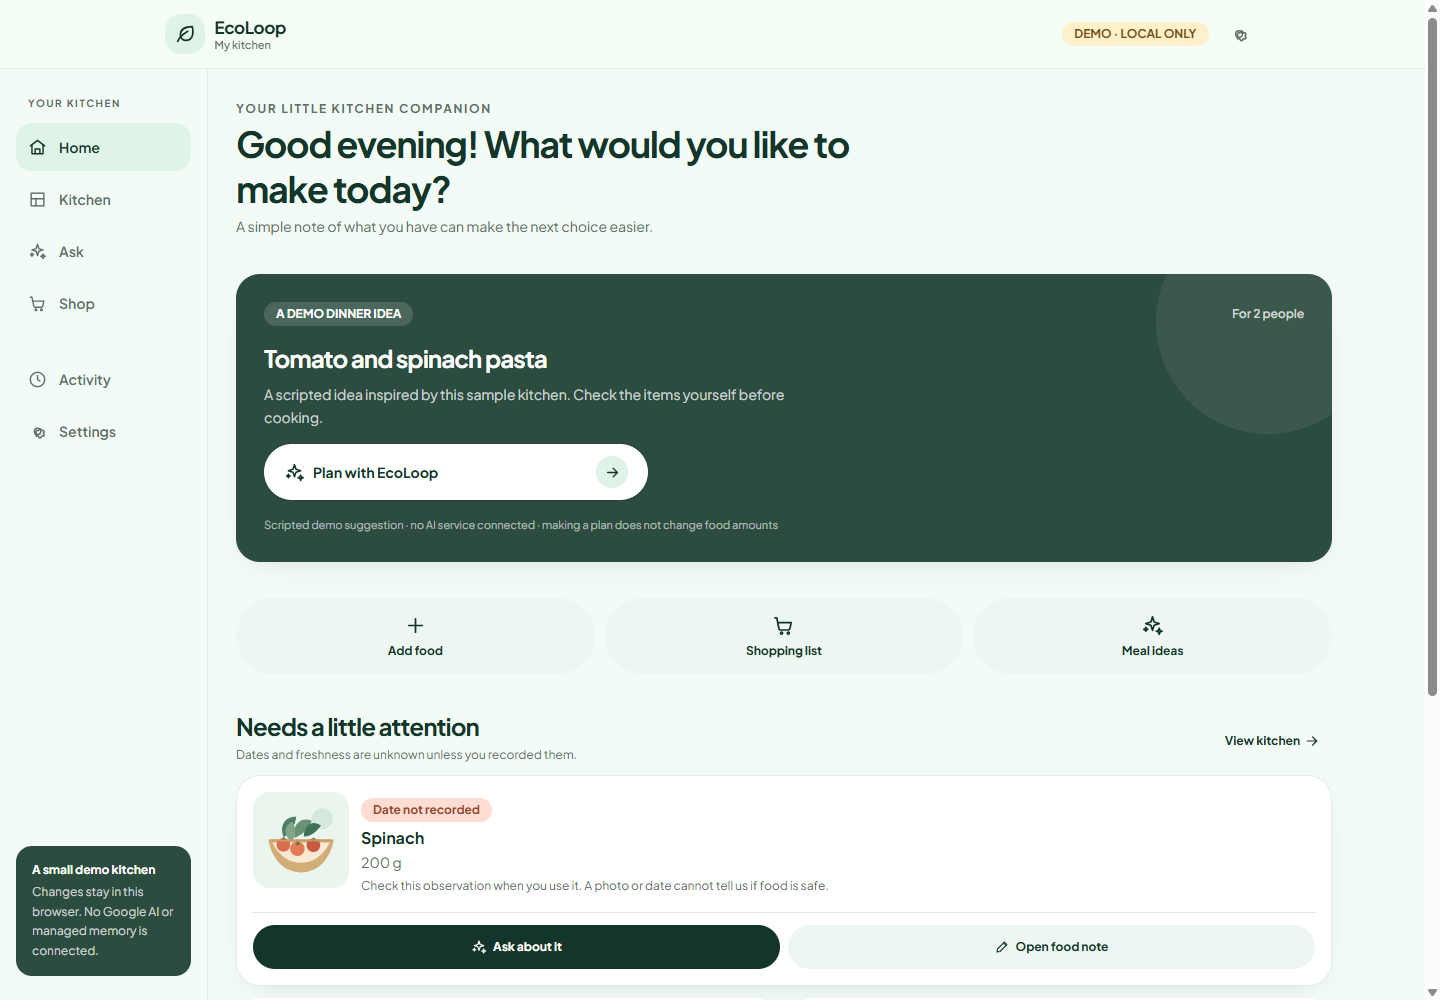
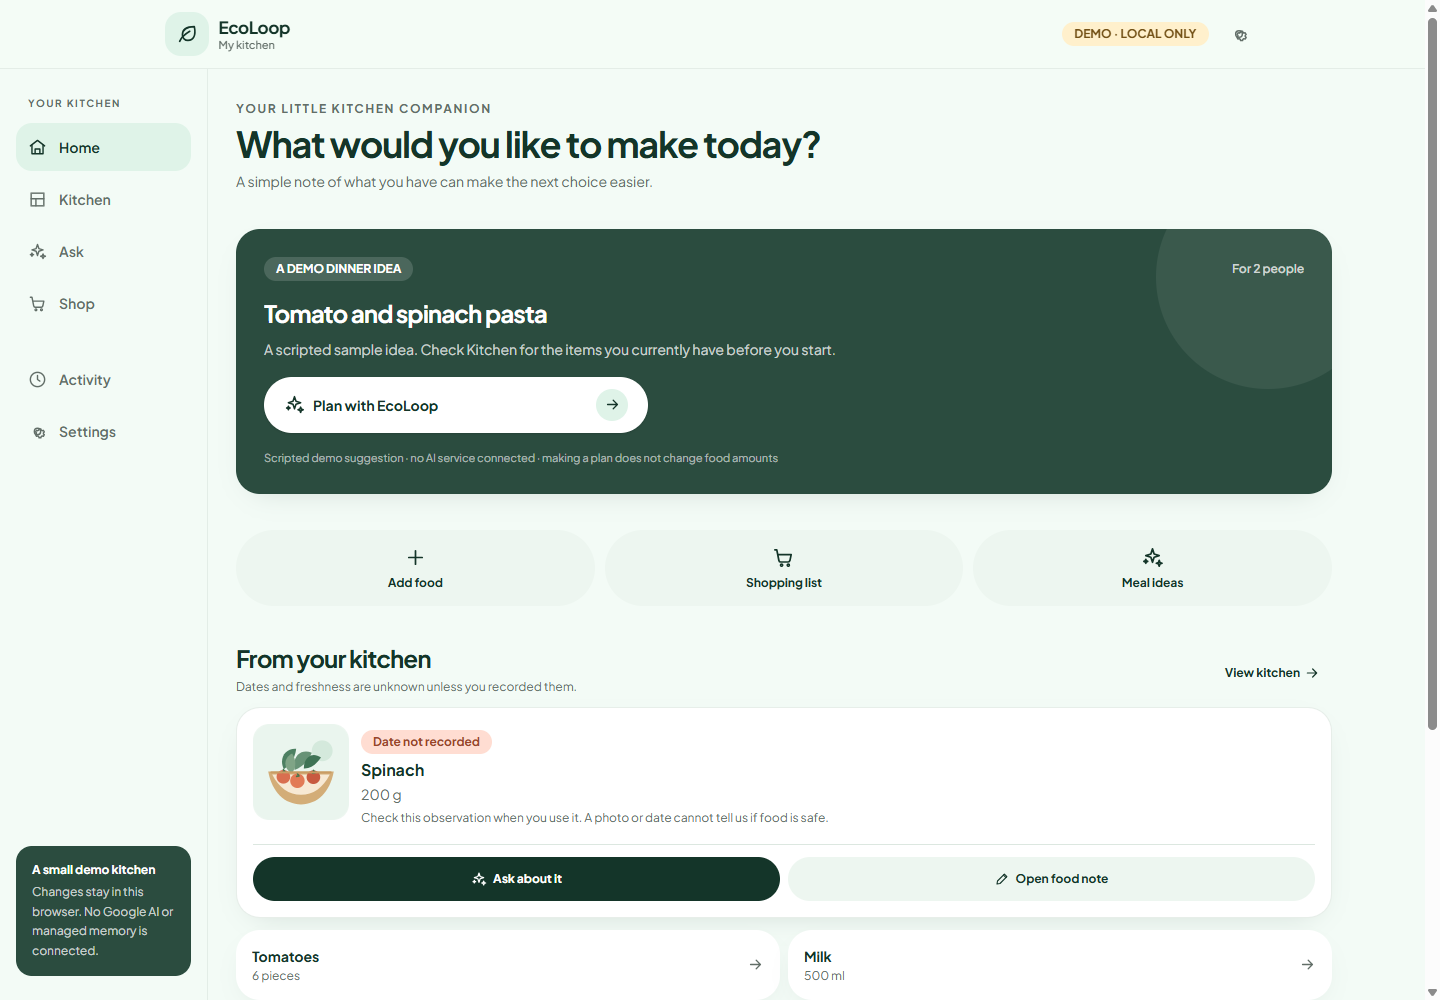
docs: record final integration build and browser review

diff --git a/docs/evidence/demo-2026-10-16/README.md b/docs/evidence/demo-2026-10-16/README.md
@@ -1,6 +1,6 @@
 # Local demo acceptance — 16 October 2026
 
-Reviewer: root integrator. Application checkpoint: `94a292c`. Production Next.js server at `http://127.0.0.1:3002`; headless Chrome, 360×800 and 1440×1000. Synthetic browser data only. This record proves local interactions; it does not prove Firebase, deployed authorization, Gemini, managed Sessions/Memory Bank, or food safety.
+Reviewer: root integrator. Initial application checkpoint: `94a292c`; final follow-up checkpoint: `1be5345`. Production Next.js server at `http://127.0.0.1:3002`; headless Chrome, 360×800 and 1440×1000. Synthetic browser data only. This record proves local interactions; it does not prove Firebase, deployed authorization, Gemini, managed Sessions/Memory Bank, or food safety.
 
 ## Observed checks
 
@@ -16,6 +16,7 @@ Reviewer: root integrator. Application checkpoint: `94a292c`. Production Next.js
 - [x] Missing item route displayed `Item not found` with recovery navigation.
 - [x] Photo mode explicitly reported extraction unavailable and offered manual entry. Manual entry with unknown amount reached review with null amount/unit. No image upload or AI call was made.
 - [x] Production browser error collection was empty at the end of the flows.
+- [x] Final integrated `1be5345` production build/TypeScript generated 13/13 pages again; full-src ESLint exited 0 without warnings. Reloaded saved item initialized the correction unit to `pieces`. Discard requested explicit confirmation and left stock at 2; cancelling retained stock at 2. Reset Escape returned focus to `Reset this demo`. Refreshed final Home screenshots and browser error collection was empty.
 - [x] Inspected mobile Home, Kitchen and review screenshots plus desktop Ask/Shop. Measured document widths 345 at viewport 360 and 1425 at viewport 1440: no horizontal overflow in these samples. This is a sampled visual/keyboard review, not a complete accessibility audit.
 
 The browser CLI's coordinate clicks did not consistently activate offscreen/sticky-header targets. Focus + Enter/Space was used for reliable native keyboard activation. The first capture was submitted via browser `requestSubmit`; a second manual capture reached review through native keyboard submission. No unit tests were added or run.
@@ -28,6 +29,7 @@ The browser CLI's coordinate clicks did not consistently activate offscreen/stic
 - [Desktop Ask](ask-desktop.png), [desktop Shop](shop-desktop.png), [desktop Activity](activity-desktop.png)
 
 Full-page browser captures place sticky/fixed navigation at the current scroll offset; this explains their position within tall captures.
+Home images show the final follow-up; other images document the initial integrated flow before the accessibility/refinement pass.
 
 ## Remaining proof and implementation
 

diff --git a/docs/knowledge/sessions/2026-10-16-demo-implementation.md b/docs/knowledge/sessions/2026-10-16-demo-implementation.md
@@ -22,4 +22,6 @@ Real bugs found: CSS layer ordering overrode semantic hero colors/link contrast;
 
 Follow-up checkpoints: foundation `abb661e` improves truthful copy, date badges, loading labels and reset focus handling; backend `bf73c6d` adds pinned nonroot Cloud Run packaging. Docker CLI was present but its Linux engine unavailable, so image build/deploy remains unproved. Root convenience backend commands now use locked uv project resolution; importing the application through that project succeeded. Draft PR #1 is attached; hourly continuation remains active, quiet on unchanged access blockers. At the usage check, ordinary usage was available (61% of five-hour allowance consumed); no reset credit was used.
 
+Journeys follow-up `59da196` adds destructive confirmations, hydrated missing-state handling, accurate unknown date copy and shared Input reuse. Final root fix `1be5345` mounts the item form only after its persisted record loads, so correction units/storage initialize correctly. Final Turbo build/TypeScript (13/13) and full-src lint passed; browser verified discard cancel retained stock, reset Escape returned focus, and no page errors were collected. All authored code is pushed; only the unrelated user PDF remains untracked.
+
 Read current plan, latest branches and live Sheet before starting. Verify remote checkpoints and working tree; preserve unrelated `docs/6ea0cdb2-aa89-433f-9817-ad0a2c61c9c5.pdf`. Frontend production server was left at port 3002 for the demo. Resume canonical API integration and real managed-service work only under its documented access/billing gates. Do not report deployed readiness from local screenshots.

diff --git a/docs/planning/PARALLEL_EXECUTION.md b/docs/planning/PARALLEL_EXECUTION.md
@@ -38,7 +38,7 @@ These boxes describe local demo checkpoints only. Full M0–M5 gates remain gove
 | Lane | Remote checkpoint | State |
 |---|---|---|
 | Foundation | `abb661e` | Integrated; accessibility/copy follow-up included |
-| Household journeys | `84bd3a8` | Integrated; local flows checked |
+| Household journeys | `59da196` | Integrated; confirmations/loading/shared Input refinements included |
 | Backend schema/security | `bf73c6d` | Integrated; container packaging prepared; live Firebase/image proof pending |
 | Managed agent and cloud | Not started | Blocked by deferred billing; no paid work |
 | Acceptance and release | `codex/demo-integration` | Local evidence recorded; deployed acceptance pending |
@@ -48,3 +48,5 @@ Five lanes are prepared; the platform permits four simultaneous agents including
 Hourly continuation is configured in the current chat. Resume only unfinished authorized work after checking limits/current branches; do not duplicate running work or repeatedly retry a billing blocker. A scheduled run needs the desktop app and computer available. It cannot create credits or enable billing.
 
 Draft review: [PR #1](https://github.com/aashikvilla/ecoloop/pull/1). No reset credit was consumed. Deployment packaging is prepared, but Docker Desktop's Linux engine was unavailable, so no image build is claimed.
+
+Final integration application checkpoint `1be5345`: production build/TypeScript and full-src lint passed again. Browser confirmed loaded item form units, discard cancellation without stock change, reset focus return and final Home render with no collected page errors.
